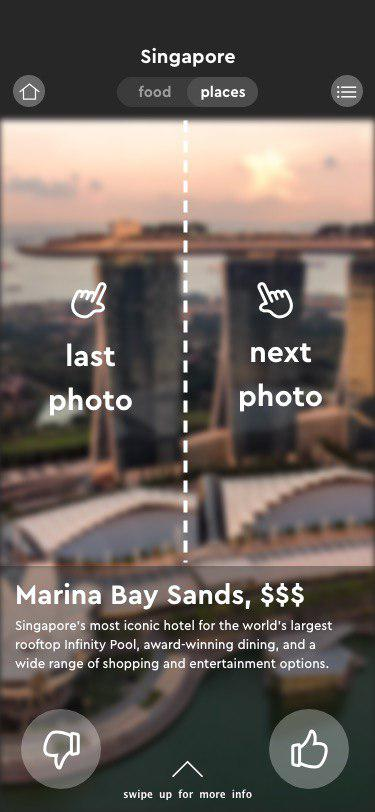
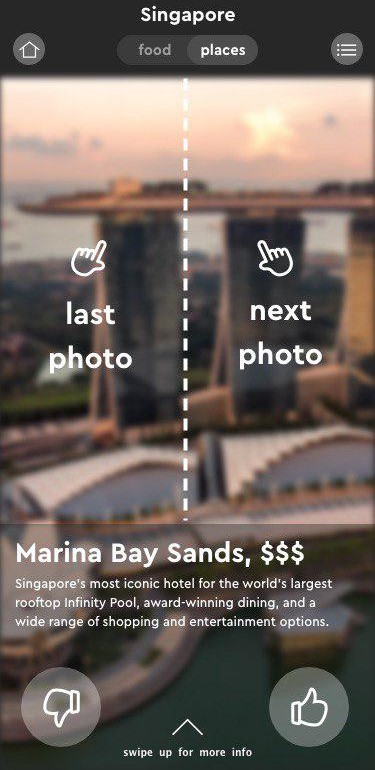
Debug tutorial page view size

diff --git a/src/client/pages/TutorialPage/TutorialPage.jsx b/src/client/pages/TutorialPage/TutorialPage.jsx
@@ -21,6 +21,9 @@ class TutorialPage extends Component {
       label: ga_info,
     });
 
+    let vh = window.innerHeight * 0.01;
+    document.documentElement.style.setProperty('--vh', `${vh}px`);
+
     return (
       <div className="tutorial-page">
         <Tutorial history={this.props.history} />

diff --git a/src/client/styles/pages/_tutorial-page.scss b/src/client/styles/pages/_tutorial-page.scss
@@ -1,5 +1,6 @@
 .tutorial-page {
   height: 100vh;
+  height: calc(var(--vh, 1vh) * 100);
   background-color: #272727;
   display: flex;
   justify-content: center;
